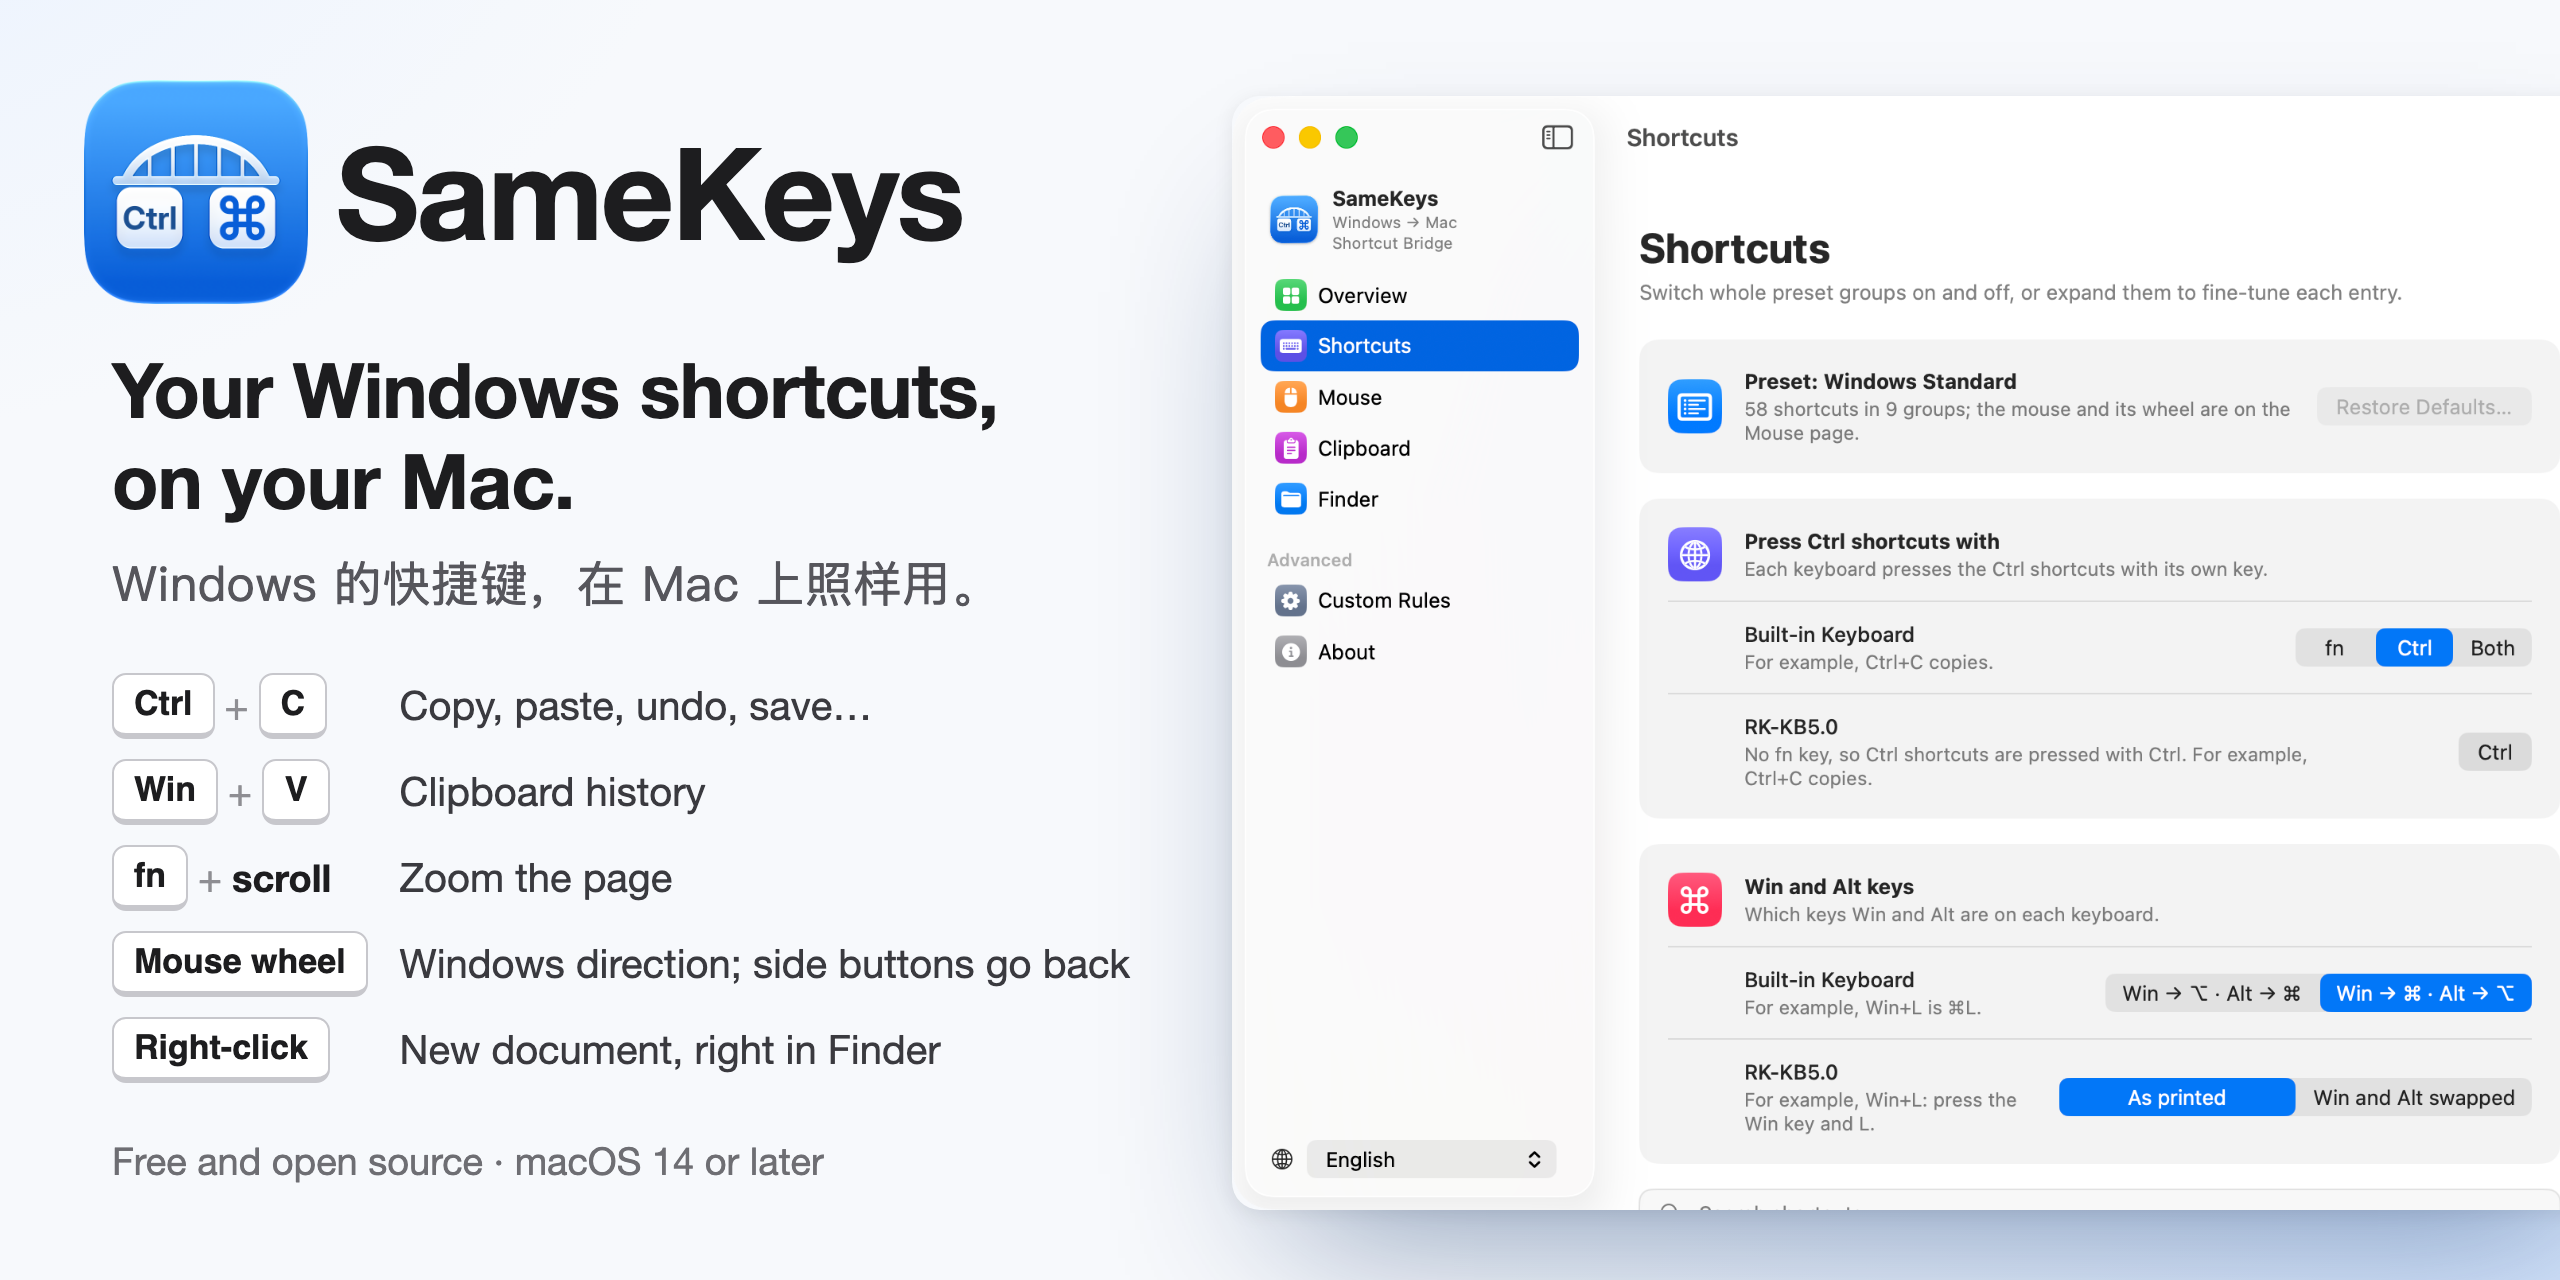
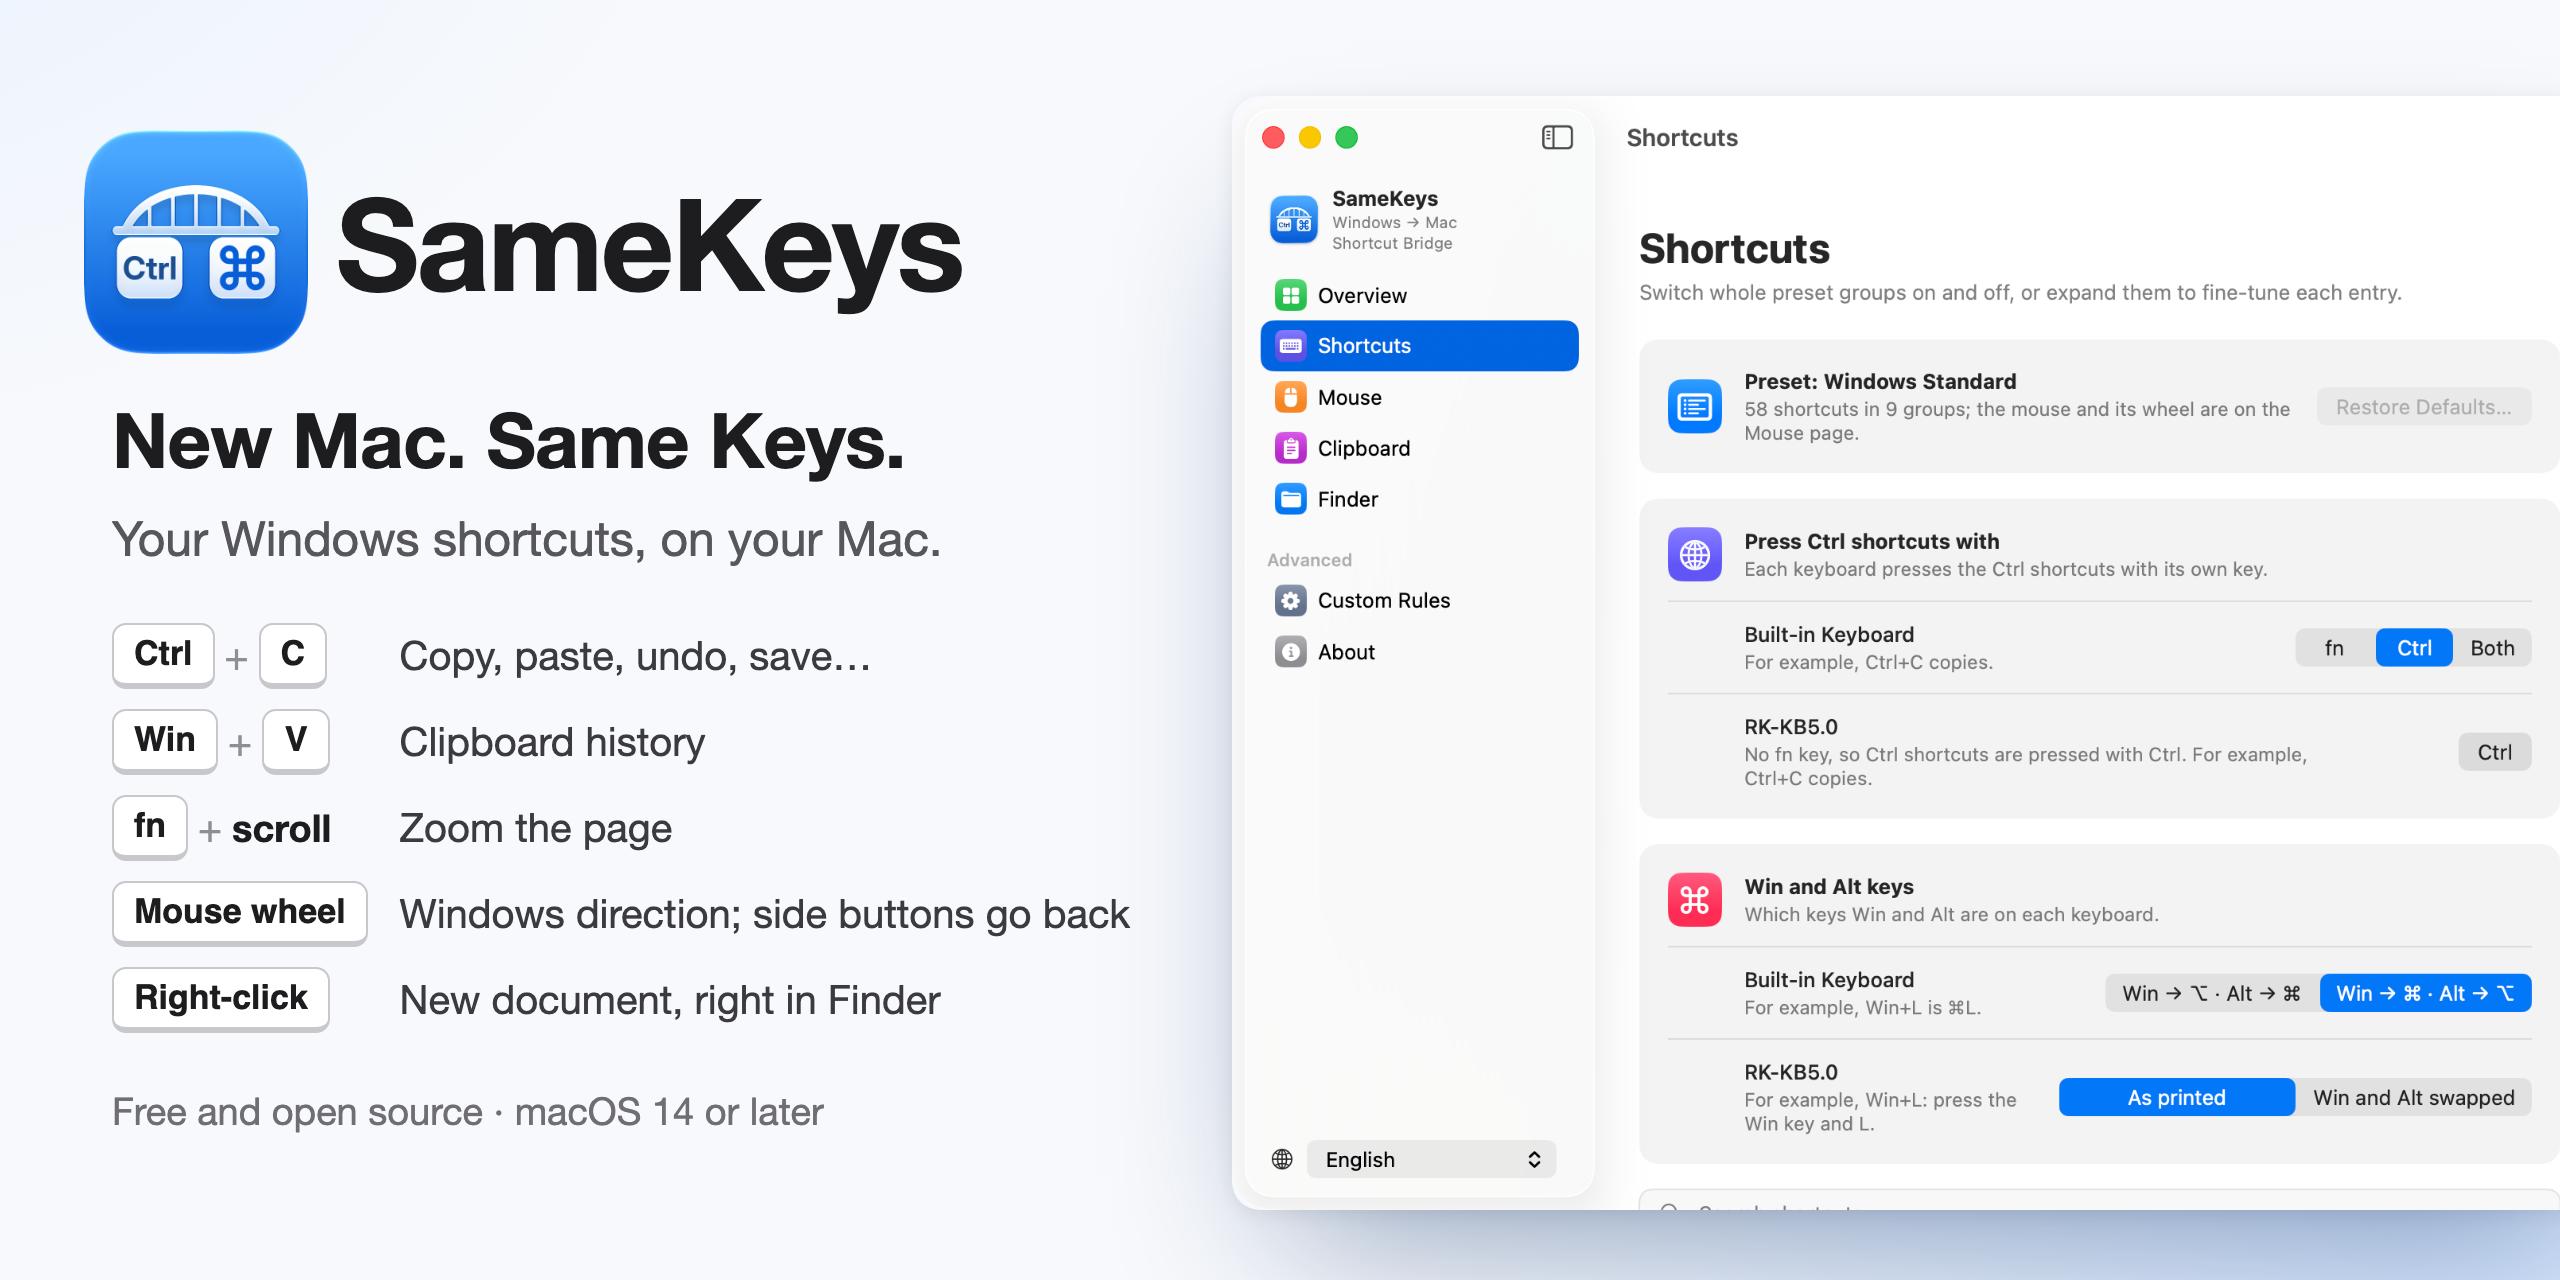
Lead with the brand line: New Mac. Same Keys.
The website's hero heading, the share title and images, and the README
open with it, in English on every page since it plays on the name. The
descriptive line each page had as its heading moves just below; page
titles and search descriptions stay descriptive.

Closes #301

Changed region(s): [[0.0312, 0.5, 0.4375, 0.9375], [0.0312, 0.0625, 0.4062, 0.4688]]

diff --git a/scripts/site/social-preview.html b/scripts/site/social-preview.html
@@ -28,8 +28,7 @@
   .brand h1 { font-size: 64px; font-weight: 700; letter-spacing: -0.02em; }
   .tagline { font-size: 38px; font-weight: 600; line-height: 1.2; letter-spacing: -0.01em;
              margin-top: 28px; }
-  .sub { font-family: -apple-system, "PingFang SC", sans-serif;
-         font-size: 24px; color: #56565c; margin-top: 12px; }
+  .sub { font-size: 24px; color: #56565c; margin-top: 12px; }
   .sub:empty { display: none; }
   .keys { margin-top: 28px; display: grid; grid-template-columns: auto 1fr; gap: 10px 16px;
           align-items: center; font-size: 20px; color: #3a3a3f; }
@@ -40,7 +39,6 @@
         border-radius: 7px; padding: 6px 10px; min-width: 34px; text-align: center; }
   :lang(zh-Hans) kbd { font-family: -apple-system, "PingFang SC", sans-serif; }
   :lang(ja) kbd { font-family: -apple-system, "Hiragino Sans", sans-serif; }
-  :lang(ja) .tagline { font-size: 34px; }
   :lang(ja) .keys { font-size: 18px; }
   :lang(ja) .word { font-size: 17px; }
   .fine { margin-top: 28px; font-size: 19px; color: #6e6e73; }
@@ -53,7 +51,7 @@
 <body>
   <div class="left">
     <div class="brand"><img src="icon.png" alt=""><h1>SameKeys</h1></div>
-    <p class="tagline" id="tagline"></p>
+    <p class="tagline" id="tagline" lang="en"></p>
     <p class="sub" id="sub"></p>
     <div class="keys">
       <span class="combo"><kbd>Ctrl</kbd>+<kbd>C</kbd></span><span id="copy"></span>
@@ -68,8 +66,8 @@
 <script>
   const text = {
     "en": {
-      tagline: "Your Windows shortcuts,<br>on your Mac.",
-      sub: "Windows 的快捷键，在 Mac 上照样用。",
+      tagline: "New Mac. Same Keys.",
+      sub: "Your Windows shortcuts, on your Mac.",
       copy: "Copy, paste, undo, save…", clipboard: "Clipboard history",
       scroll: "scroll", zoom: "Zoom the page",
       wheelKey: "Mouse wheel", wheel: "Windows direction; side buttons go back",
@@ -77,8 +75,8 @@
       fine: "Free and open source · macOS 14 or later",
     },
     "zh-Hans": {
-      tagline: "Windows 的快捷键，<br>在 Mac 上照样用。",
-      sub: "",
+      tagline: "New Mac. Same Keys.",
+      sub: "Windows 的快捷键，在 Mac 上照样用。",
       copy: "复制、粘贴、撤销、保存…", clipboard: "剪贴板历史",
       scroll: "滚轮", zoom: "缩放网页",
       wheelKey: "鼠标滚轮", wheel: "方向和 Windows 一致，侧键后退",
@@ -86,8 +84,8 @@
       fine: "免费开源 · macOS 14 或更高版本",
     },
     "ja": {
-      tagline: "Windows のショートカットを、<br>Mac でも。",
-      sub: "",
+      tagline: "New Mac. Same Keys.",
+      sub: "Windows のショートカットを、Mac でも。",
       copy: "コピー、ペースト、取り消し、保存…", clipboard: "クリップボード履歴",
       scroll: "スクロール", zoom: "ページを拡大・縮小",
       wheelKey: "マウスホイール", wheel: "Windows と同じ向き、サイドボタンで戻る",

diff --git a/site/ja/index.html b/site/ja/index.html
@@ -11,7 +11,7 @@
   <link rel="alternate" hreflang="ja" href="https://samekeys.com/ja/">
   <link rel="alternate" hreflang="x-default" href="https://samekeys.com/">
   <meta property="og:type" content="website">
-  <meta property="og:title" content="SameKeys – Mac で Windows のショートカットを">
+  <meta property="og:title" content="SameKeys – New Mac. Same Keys.">
   <meta property="og:description" content="Ctrl+C でコピー、Win+V でクリップボード履歴、マウスホイールの向きも Windows と同じ。無料のオープンソース。">
   <meta property="og:url" content="https://samekeys.com/ja/">
   <meta property="og:image" content="https://samekeys.com/assets/social/ja.png">
@@ -67,7 +67,8 @@
 <div class="hero">
   <div class="narrow">
     <p class="eyebrow">Windows から Mac に乗り換えたあなたへ</p>
-    <h1>Windows のショートカットを、Mac でも。</h1>
+    <h1 lang="en">New Mac. Same&nbsp;Keys.</h1>
+    <p class="subhead">Windows のショートカットを、Mac でも。</p>
     <p class="lede">SameKeys なら <span class="combo"><kbd>Ctrl</kbd><span class="plus">+</span><kbd>C</kbd></span> でコピー、<span class="combo"><kbd>Win</kbd><span class="plus">+</span><kbd>V</kbd></span> でクリップボード履歴、マウスホイールの向きも Windows と同じ。長年の指の記憶がそのまま使えます。</p>
     <div class="actions">
       <a class="button" href="#download">Mac 版をダウンロード</a>

diff --git a/site/zh-hans/index.html b/site/zh-hans/index.html
@@ -11,7 +11,7 @@
   <link rel="alternate" hreflang="ja" href="https://samekeys.com/ja/">
   <link rel="alternate" hreflang="x-default" href="https://samekeys.com/">
   <meta property="og:type" content="website">
-  <meta property="og:title" content="SameKeys – 在 Mac 上用 Windows 快捷键">
+  <meta property="og:title" content="SameKeys – New Mac. Same Keys.">
   <meta property="og:description" content="Ctrl+C 照样复制，Win+V 照样打开剪贴板历史，鼠标滚轮方向和 Windows 一致。免费开源。">
   <meta property="og:url" content="https://samekeys.com/zh-hans/">
   <meta property="og:image" content="https://samekeys.com/assets/social/zh-Hans.png">
@@ -67,7 +67,8 @@
 <div class="hero">
   <div class="narrow">
     <p class="eyebrow">给从 Windows 换到 Mac 的你</p>
-    <h1>Windows 的快捷键，在 Mac 上照样用。</h1>
+    <h1 lang="en">New Mac. Same&nbsp;Keys.</h1>
+    <p class="subhead">Windows 的快捷键，在 Mac 上照样用。</p>
     <p class="lede">SameKeys 让 <span class="combo"><kbd>Ctrl</kbd><span class="plus">+</span><kbd>C</kbd></span> 照样复制，<span class="combo"><kbd>Win</kbd><span class="plus">+</span><kbd>V</kbd></span> 照样打开剪贴板历史，鼠标滚轮方向和 Windows 一致。多年的肌肉记忆，不用重新练。</p>
     <div class="actions">
       <a class="button" href="#download">下载 Mac 版</a>

diff --git a/site/index.html b/site/index.html
@@ -11,7 +11,7 @@
   <link rel="alternate" hreflang="ja" href="https://samekeys.com/ja/">
   <link rel="alternate" hreflang="x-default" href="https://samekeys.com/">
   <meta property="og:type" content="website">
-  <meta property="og:title" content="SameKeys – Windows shortcuts on your Mac">
+  <meta property="og:title" content="SameKeys – New Mac. Same Keys.">
   <meta property="og:description" content="Ctrl+C copies, Win+V opens your clipboard history, and the mouse wheel scrolls the Windows way. Free and open source.">
   <meta property="og:url" content="https://samekeys.com/">
   <meta property="og:image" content="https://samekeys.com/assets/social/en.png">
@@ -67,7 +67,8 @@
 <div class="hero">
   <div class="narrow">
     <p class="eyebrow">For everyone who moved from Windows to Mac</p>
-    <h1>Your Windows shortcuts, on&nbsp;your&nbsp;Mac.</h1>
+    <h1>New Mac. Same&nbsp;Keys.</h1>
+    <p class="subhead">Your Windows shortcuts, on&nbsp;your&nbsp;Mac.</p>
     <p class="lede">SameKeys makes <span class="combo"><kbd>Ctrl</kbd><span class="plus">+</span><kbd>C</kbd></span> copy, <span class="combo"><kbd>Win</kbd><span class="plus">+</span><kbd>V</kbd></span> open your clipboard history, and your mouse wheel scroll the Windows way, so years of muscle memory keep working.</p>
     <div class="actions">
       <a class="button" href="#download">Download for Mac</a>

diff --git a/site/assets/site.css b/site/assets/site.css
@@ -121,6 +121,7 @@ p { margin: 0; }
 .hero { padding: clamp(56px, 10vw, 110px) 0 0; text-align: center; overflow: hidden; }
 .eyebrow { color: var(--accent); font-weight: 600; font-size: 0.95rem; margin-bottom: 14px; }
 .hero h1 { max-width: 15em; margin-inline: auto; }
+.subhead { font-size: clamp(1.35rem, 3vw, 1.75rem); font-weight: 600; letter-spacing: -0.01em; margin-top: 14px; }
 .lede { color: var(--text-2); font-size: clamp(1.1rem, 2.2vw, 1.3rem); max-width: 34em; margin: 22px auto 0; }
 
 .actions { display: flex; flex-wrap: wrap; justify-content: center; align-items: center; gap: 14px 22px; margin-top: 34px; }

diff --git a/README.md b/README.md
@@ -4,7 +4,9 @@
 [![License: GPL-3.0](https://img.shields.io/github/license/lynnjeans/samekeys)](LICENSE)
 ![macOS 14 or later](https://img.shields.io/badge/macOS-14%2B-blue?logo=apple)
 
-**A Mac shortcut bridge for Windows users.**
+**New Mac. Same Keys.**
+
+Your Windows shortcuts, on your Mac.
 
 SameKeys lets people who just moved from Windows to macOS keep their muscle memory:
 `Ctrl+C` still copies, `Home`/`End` still jump to line start/end, mouse side buttons still
